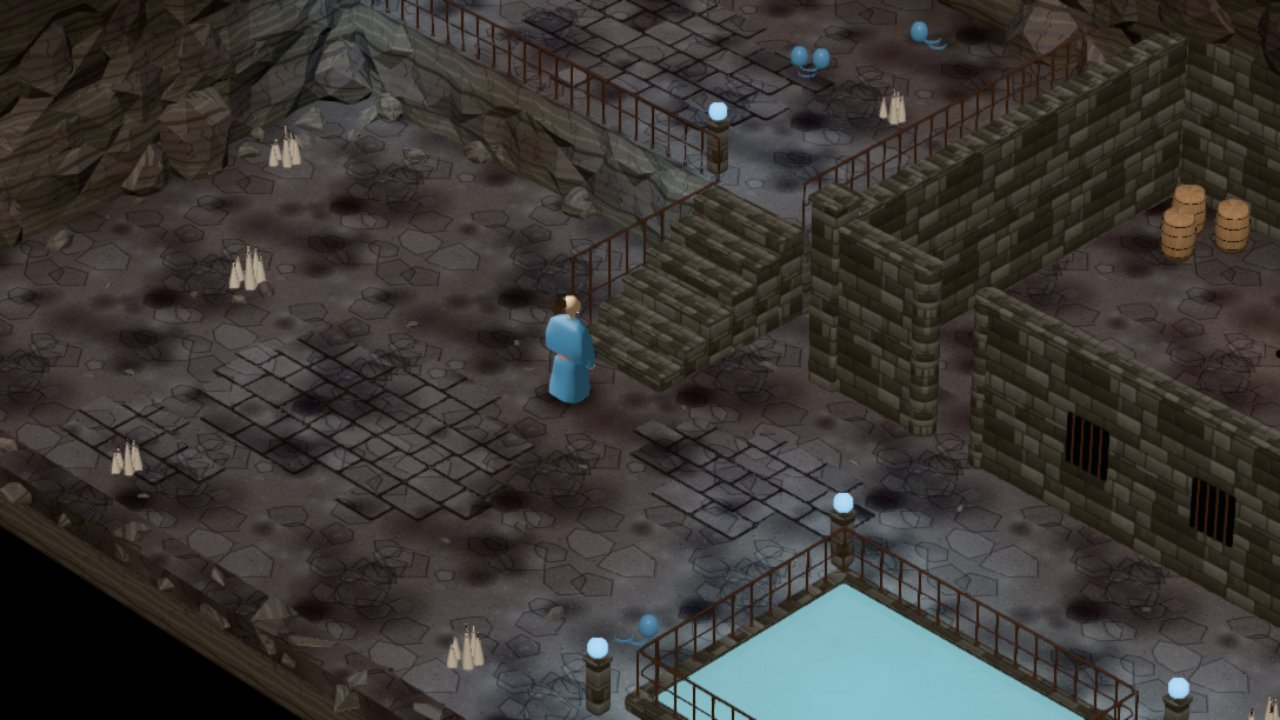
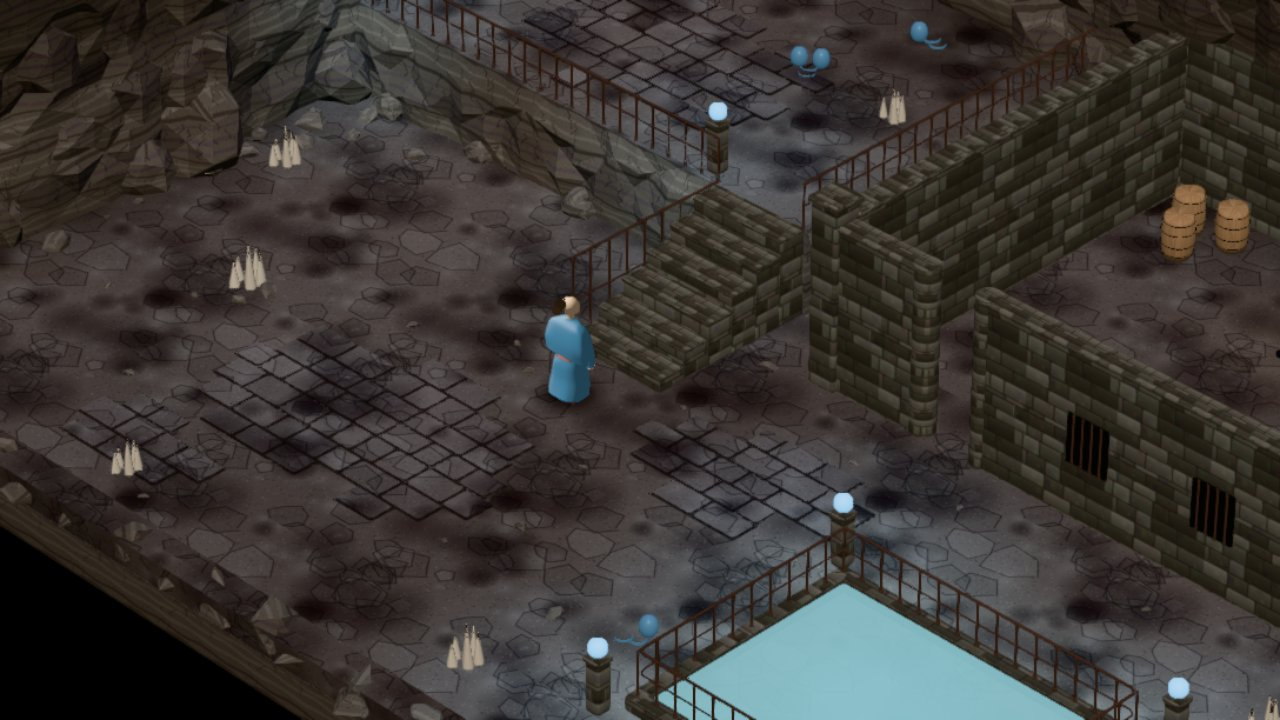
CAVE-LOOK: the bake straight over the arrays (one noise octave, lamps by squared reach), the rocks from 16 + 12 cached shapes: the room's build 40-48 ms -> ~100 ms here (was ~150-240 before this); after captures retaken
Claude-Session: https://claude.ai/code/session_012GFEakZyL3XxjZKHRj5dFg

diff --git a/lba3/src/game/tralucave.js b/lba3/src/game/tralucave.js
@@ -36,6 +36,8 @@ const globeM = () => MAT.glow('#d6f2ff', '#5ab0e0', 1.5), eggM = () => M('tc_egg
 // pool and the door is baked into their vertex colours (bake() below), so the battery profile's two lamps still show it
 const caveRock = () => rockMat('#c4bcb2');
 const caveFloor = () => M('tc_floorbake', () => { const m = new THREE.MeshStandardMaterial({ map: floorTex('#776b68', 'rgba(40,30,36,0.4)', 'shaft'), color: '#eceae6', vertexColors: true, flatShading: true, roughness: 0.93 }); m.userData.tile = 4.5; return m; });   // (the shaft's floor texture, shared; flat shading on a flat floor changes nothing and keeps the rock's program)
+// the faceted rocks, 16 shapes (12 small ones) of the underground's cache: made once (~0.5 ms each), shared with it
+const rk = (sd, small = false) => (small ? rockGeo(sd % 12, { detail: 0 }) : rockGeo(sd % 16));
 const hash2 = (x, y, s) => { const h = Math.sin(x * 127.1 + y * 311.7 + s * 74.7) * 43758.5453; return h - Math.floor(h); };
 function vn2(x, y, s = 0) {
   const ix = Math.floor(x), iy = Math.floor(y), fx = x - ix, fy = y - iy, u = fx * fx * (3 - 2 * fx), v = fy * fy * (3 - 2 * fy);
@@ -140,7 +142,7 @@ function candleStand(k) {
 // per-vertex projection read as a dark ring on the floor from the room's camera. CAVE-LOOK: the cave's own faceted rock)
 let BSEED = 0;
 function boulder(k, s = 1) {
-  k.add(rockGeo(3 + (BSEED++ % 9) * 4), caveRock(), 0, 0, 0, 0, { sx: 0.5 * s, sy: 0.42 * s, sz: 0.46 * s });
+  k.add(rk(3 + (BSEED++ % 9) * 4), caveRock(), 0, 0, 0, 0, { sx: 0.5 * s, sy: 0.42 * s, sz: 0.46 * s });
   return { r: 0.55 * s, top: 0.6 * s };
 }
 
@@ -300,7 +302,7 @@ export function buildTraluCaveRoom(scene, physics) {
           const reach = (foot ? 0.34 : top ? 0.85 : 0.6) * (0.75 + h(4) * 0.25), y = y0 + t * band * 0.94 - (t ? 0.25 : 0.02);
           if (!keep(s, y, sx * 1.25, y + sy * 1.5)) continue;
           const [x, , z] = to(s, y, reach - sz * 1.22);
-          k.add(rockGeo(Math.floor(h(5) * 40)), crock, x, y, z, (h(6) - 0.5) * 0.8 + (to === left ? Math.PI / 2 : 0), { sx, sy, sz });
+          k.add(rk(Math.floor(h(5) * 40)), crock, x, y, z, (h(6) - 0.5) * 0.8 + (to === left ? Math.PI / 2 : 0), { sx, sy, sz });
         }
       }
     };
@@ -315,8 +317,8 @@ export function buildTraluCaveRoom(scene, physics) {
     box(-RX - T - 1.1, -0.06, DZ0, -RX, 0, DZ1, cap);
     box(-RX - T - 1.1, 0, DZ0 - 0.3, -RX - T, DH + 0.3, DZ0); box(-RX - T - 1.1, 0, DZ1, -RX - T, DH + 0.3, DZ1 + 0.3); box(-RX - T - 1.1, DH, DZ0, -RX - T, DH + 0.3, DZ1);
     k.add(plane(1.6, DH), MAT.flat('#121416', 0.9), -RX - T - 1.05, DH / 2, DOORZ, Math.PI / 2);
-    for (const [z, sd] of [[DZ0 - 0.32, 5], [DZ1 + 0.32, 9]]) k.add(rockGeo(sd), crock, -RX - 0.12, 0, z, sd, { sx: 0.34, sy: 1.25, sz: 0.34 });
-    k.add(rockGeo(17), crock, -RX - 0.1, DH - 0.05, DOORZ, 0.4, { sx: 1.25, sy: 0.32, sz: 0.3 });
+    for (const [z, sd] of [[DZ0 - 0.32, 5], [DZ1 + 0.32, 9]]) k.add(rk(sd), crock, -RX - 0.12, 0, z, sd, { sx: 0.34, sy: 1.25, sz: 0.34 });
+    k.add(rk(17), crock, -RX - 0.1, DH - 0.05, DOORZ, 0.4, { sx: 1.25, sy: 0.32, sz: 0.3 });
     // the terrace: its front and east faces a rough rock ledge, flush at the top under the railing
     const ledge = (seed) => (s, y) => (0.07 + 0.34 * fbm(s * 0.7, y * 0.9, seed)) * (1 - 0.86 * smoothstep(TY - 0.6, TY, y));
     face({ s0: LX, s1: SX0 + 0.05, y0: 0, y1: TY + 0.012, ds: 0.5, dy: 0.45, lip: 0.08, out: ledge(21), to: (s, y, d) => [s, y, TZ1 + d], facing: [0, 1], seed: 21 });
@@ -324,11 +326,11 @@ export function buildTraluCaveRoom(scene, physics) {
     // the near rims: low rock with stones along them (the cut-away's edge)
     const rh = 0.5, rr = (sd) => { const h = hash2(sd, 1, 77); return h; };
     box(-RX - T, 0, RZ, RX + T, rh, RZ + T, cfloor); box(RX, 0, -RZ - T, RX + T, rh, RZ, cfloor);
-    for (let x = -RX - T + 0.4, i = 0; x < RX + T; x += 0.9 + rr(i) * 0.7, i++) k.add(rockGeo(i % 30, { detail: 0 }), crock, x, 0.05, RZ + T * 0.45, rr(i + 50) * 6, { sx: 0.45 + rr(i + 9) * 0.3, sy: 0.3 + rr(i + 19) * 0.25, sz: T * 0.62 });
-    for (let z = -RZ - T + 0.4, i = 0; z < RZ; z += 0.9 + rr(i + 3) * 0.7, i++) k.add(rockGeo((i + 7) % 30, { detail: 0 }), crock, RX + T * 0.45, 0.05, z, rr(i + 60) * 6, { sx: T * 0.62, sy: 0.3 + rr(i + 29) * 0.25, sz: 0.45 + rr(i + 39) * 0.3 });
+    for (let x = -RX - T + 0.4, i = 0; x < RX + T; x += 0.9 + rr(i) * 0.7, i++) k.add(rk(i, true), crock, x, 0.05, RZ + T * 0.45, rr(i + 50) * 6, { sx: 0.45 + rr(i + 9) * 0.3, sy: 0.3 + rr(i + 19) * 0.25, sz: T * 0.62 });
+    for (let z = -RZ - T + 0.4, i = 0; z < RZ; z += 0.9 + rr(i + 3) * 0.7, i++) k.add(rk(i + 7, true), crock, RX + T * 0.45, 0.05, z, rr(i + 60) * 6, { sx: T * 0.62, sy: 0.3 + rr(i + 29) * 0.25, sz: 0.45 + rr(i + 39) * 0.3 });
     // rock masses in the far corners and where the terrace meets the wall (the box's corners gone), and the rock's
     // rubble on the floor: stones and pebbles off the paths (no brick: small enough to walk over)
-    const mass = (x, y, z, sx, sy, sz, sd, ry = 0) => k.add(rockGeo(sd), crock, x, y, z, ry, { sx, sy, sz });
+    const mass = (x, y, z, sx, sy, sz, sd, ry = 0) => k.add(rk(sd), crock, x, y, z, ry, { sx, sy, sz });
     mass(-RX + 0.15, 0, TZ1 + 0.45, 0.75, 0.95, 0.7, 7, 0.6); B.ccol(-RX + 0.3, TZ1 + 0.4, 0.42, 1.2, { noStand: true });
     mass(-RX + 0.1, TY - 0.1, -RZ + 0.1, 0.8, 1.1, 0.8, 19, 0.3); mass(-RX + 0.05, TY + 1.5, -RZ + 0.05, 0.75, 1.0, 0.7, 23, 1.4); mass(-RX, TY + 2.7, -RZ, 0.85, 0.9, 0.85, 29, 2.2);
     B.ccol(-RX + 0.35, -RZ + 0.35, 0.55, H, { noStand: true });
@@ -346,7 +348,7 @@ export function buildTraluCaveRoom(scene, physics) {
       const z = edge && x > -RX + 1.7 ? -RZ + 0.35 + hash2(i, 5, 91) * 1.3 : -RZ + hash2(i, 6, 91) * D;
       if (clearOf.some(([a, b, c, d]) => x > a && x < b && z > c && z < d) || x > RX - 0.3 || z > RZ - 0.3) continue;
       const sz = 0.06 + hash2(i, 7, 91) ** 2 * (edge ? 0.26 : 0.14);
-      k.add(rockGeo(Math.floor(hash2(i, 8, 91) * 30), { detail: 0 }), crock, x, -0.01, z, hash2(i, 9, 91) * 6, { sx: sz * (1 + hash2(i, 10, 91)), sy: sz * 0.75, sz }); n++;
+      k.add(rk(Math.floor(hash2(i, 8, 91) * 30), true), crock, x, -0.01, z, hash2(i, 9, 91) * 6, { sx: sz * (1 + hash2(i, 10, 91)), sy: sz * 0.75, sz }); n++;
     }
     // bricks along the faces' feet (each a little over 0.3 m out of the wall: he stops at the rock, not inside it)
     const strip = (x0, z0, x1, z1, top) => B.col((x0 + x1) / 2, (z0 + z1) / 2, (x1 - x0) / 2, (z1 - z0) / 2, top, { noStand: true });
@@ -367,25 +369,29 @@ export function buildTraluCaveRoom(scene, physics) {
   for (const [x, z, y] of [[LX + 0.45, TZ1 - 0.35, TY], [SX0 - 0.35, TZ1 - 0.35, TY], [PX0 - 0.3, PZ0 - 0.3, 0], [PX1 + 0.3, PZ0 - 0.3, 0], [PX0 - 0.3, PZ1 + 0.3, 0]]) glow.push([x, y + 1.24, z, 4.8, 2.0, [0.36, 0.74, 1.0]]);
   for (const [x, z] of [[3.6 * F, -5.0 * F], [7.2 * F, -5.0 * F], [8.2 * F + 0.2, -6.2 * F + 0.15]]) glow.push([x, 1.4, z, 2.8, 0.5, [1.0, 0.72, 0.4]]);
   glow.push([LX + 0.3, 1.2, DOORZ, 3.0, 0.4, [1.0, 0.93, 0.8]]);
-  const bake = (x, y, z, onFloor) => {
-    const dl = Math.max(0, x - LX), db = Math.max(0, z - BZ), up = y > TY - 0.1 && x < TX1 + 0.2 && z < TZ1 + 0.2 ? TY : 0;
-    let m;
-    if (onFloor) m = (0.66 + 0.4 * smoothstep(0, 2.6, Math.min(dl, db))) * (0.9 + 0.28 * fbm(x * 0.21, z * 0.21, 3));
-    else m = (1.12 - 0.45 * smoothstep(up + 0.6, H + 0.6, y)) * (0.84 + 0.3 * fbm(x * 0.35 + z * 0.35, y * 0.5, 5)) * (0.78 + 0.22 * smoothstep(0, 1.2, y - up + Math.min(dl, db)));
-    const c = [m, m, m];
-    for (const [gx, gy, gz, r, kk, col] of glow) {
-      const d = Math.hypot(x - gx, (y - gy) * 0.6, z - gz); if (d >= r) continue;
-      const f = (1 - d / r) ** 1.5 * kk; c[0] += col[0] * f; c[1] += col[1] * f; c[2] += col[2] * f;
-    }
-    // the pool: its cold glow on the floor and kerb round it
-    const pd = Math.hypot(Math.max(PX0 - x, 0, x - PX1), Math.max(PZ0 - z, 0, z - PZ1));
-    if (pd < 2.6 && y < 1.5) { const f = (1 - pd / 2.6) ** 1.5 * 1.3; c[0] += 0.36 * f; c[1] += 0.8 * f; c[2] += 0.9 * f; }
-    return c;
-  };
+  // (straight over the arrays, one noise octave and the lamps' squared reach first: ~40 000 vertices, once per session)
+  const nG = glow.length, G = glow.flat(2);   // [x, y, z, r, k, cr, cg, cb] per lamp
   for (const o of B.group.children) {
     if (!o.isMesh || (o.material !== crock && o.material !== cfloor)) continue;
-    const P = o.geometry.attributes.position, C = o.geometry.attributes.color, fl = o.material !== crock;
-    for (let i = 0; i < P.count; i++) { const c = bake(P.getX(i), P.getY(i), P.getZ(i), fl); C.setXYZ(i, C.getX(i) * c[0], C.getY(i) * c[1], C.getZ(i) * c[2]); }
+    const P = o.geometry.attributes.position.array, C = o.geometry.attributes.color.array, onFloor = o.material !== crock;
+    for (let i = 0; i < P.length; i += 3) {
+      const x = P[i], y = P[i + 1], z = P[i + 2];
+      const dl = Math.max(0, x - LX), db = Math.max(0, z - BZ), up = y > TY - 0.1 && x < TX1 + 0.2 && z < TZ1 + 0.2 ? TY : 0;
+      const m = onFloor ? (0.66 + 0.4 * smoothstep(0, 2.6, Math.min(dl, db))) * (0.87 + 0.34 * vn2(x * 0.24, z * 0.24, 3))
+        : (1.12 - 0.45 * smoothstep(up + 0.6, H + 0.6, y)) * (0.82 + 0.34 * vn2(x * 0.4 + z * 0.4, y * 0.55, 5)) * (0.78 + 0.22 * smoothstep(0, 1.2, y - up + Math.min(dl, db)));
+      let r = m, g = m, b = m;
+      for (let q = 0; q < nG * 8; q += 8) {
+        const dx = x - G[q], dy = (y - G[q + 1]) * 0.6, dz = z - G[q + 2], d2 = dx * dx + dy * dy + dz * dz, R = G[q + 3];
+        if (d2 >= R * R) continue;
+        const f = (1 - Math.sqrt(d2) / R) ** 1.5 * G[q + 4]; r += G[q + 5] * f; g += G[q + 6] * f; b += G[q + 7] * f;
+      }
+      // the pool: its cold glow on the floor and kerb round it
+      if (y < 1.5) {
+        const pd = Math.hypot(Math.max(PX0 - x, 0, x - PX1), Math.max(PZ0 - z, 0, z - PZ1));
+        if (pd < 2.6) { const f = (1 - pd / 2.6) ** 1.5 * 1.3; r += 0.36 * f; g += 0.8 * f; b += 0.9 * f; }
+      }
+      C[i] *= r; C[i + 1] *= g; C[i + 2] *= b;
+    }
   }
   return { tralucave: R };
 }
